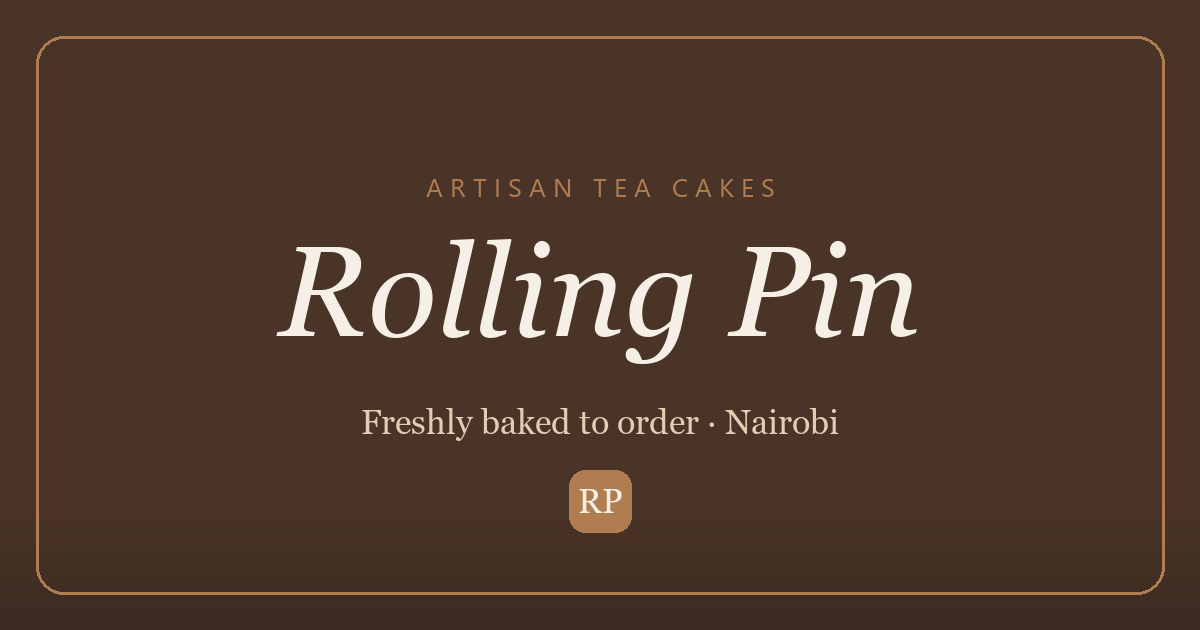
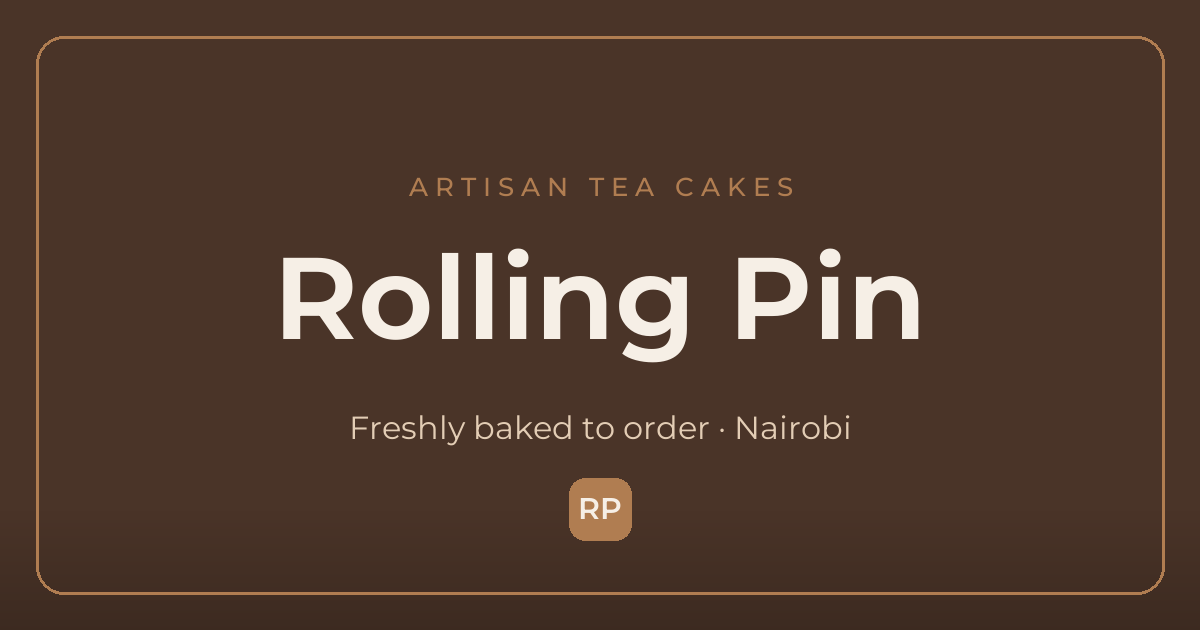
UI polish: single font, slim footer, image loading fix
- One brand font (Montserrat) everywhere; Cormorant serif removed. Display
  sizes retuned so headings stay elegant at the wider font.
- Footer slimmed: dropped the nav links (redundant with the sticky top nav);
  socials now a centered horizontal row in white.
- Product photos never flash a placeholder on refresh: new ProductImage marks
  cached photos loaded before first paint (via img.complete in a layout effect),
  eager loading (no lazy defer), neutral tile instead of the gradient, photos
  preloaded when the menu arrives, and a 1-year cache header on new uploads.
- Browser tab + share title shortened to 'Rolling Pin'; OG/canonical URLs and
  share image point at the live domain rollingpin.co.ke.
- Track page: 'message her directly' -> 'drop us a text'.

diff --git a/src/styles.css b/src/styles.css
@@ -20,7 +20,9 @@
   --radius: 22px;
   --radius-sm: 14px;
 
-  --serif: 'Cormorant Garamond', Georgia, serif;
+  /* Single-font brand: everything is Montserrat. --serif is kept as the "display"
+     role (headings, prices, codes) so weights/sizes can diverge later if wanted. */
+  --serif: 'Montserrat', system-ui, -apple-system, sans-serif;
   --sans: 'Montserrat', system-ui, -apple-system, sans-serif;
 }
 
@@ -46,8 +48,8 @@ h1, h2, h3, h4 {
   font-weight: 600;
   color: var(--cocoa);
   margin: 0;
-  line-height: 1.1;
-  letter-spacing: 0.2px;
+  line-height: 1.15;
+  letter-spacing: -0.3px; /* Montserrat tracks wide at display sizes */
 }
 
 a {
@@ -225,7 +227,8 @@ img {
   align-items: center;
 }
 .hero h1 {
-  font-size: clamp(2.8rem, 6vw, 4.6rem);
+  font-size: clamp(2.3rem, 5vw, 3.7rem);
+  letter-spacing: -1px;
   margin-bottom: 22px;
 }
 .hero h1 em {
@@ -875,26 +878,21 @@ img {
   padding: 56px 0 30px;
   margin-top: 40px;
 }
-.footer-grid {
-  display: grid;
-  grid-template-columns: 1fr 1fr;
-  gap: 40px;
-  margin-bottom: 36px;
+.footer-social-row {
+  display: flex;
+  justify-content: center;
+  align-items: center;
+  gap: 36px;
+  flex-wrap: wrap;
+  margin-bottom: 28px;
 }
-.footer h4 {
-  color: var(--cream);
-  font-size: 1.2rem;
-  margin-bottom: 14px;
-}
-.footer p,
 .footer a {
-  color: rgba(227, 205, 181, 0.85);
-  font-size: 0.92rem;
-  margin: 6px 0;
-  display: block;
+  color: #fff;
+  font-size: 0.95rem;
+  font-weight: 500;
 }
 .footer a:hover {
-  color: #fff;
+  color: var(--latte);
 }
 .footer a.footer-social {
   display: flex;
@@ -902,8 +900,8 @@ img {
   gap: 9px;
 }
 .footer-social svg {
-  width: 17px;
-  height: 17px;
+  width: 18px;
+  height: 18px;
   flex: 0 0 auto;
   fill: currentColor;
 }
@@ -923,6 +921,15 @@ img {
 }
 
 /* ---------- Product photos (storefront) ---------- */
+/* Photos fade in when ready; a cached photo (on refresh) is marked loaded before the
+   first paint by ProductImage, so it renders opaque immediately — no placeholder. */
+.product-img {
+  opacity: 0;
+  transition: opacity 0.35s ease;
+}
+.product-img.is-loaded {
+  opacity: 1;
+}
 .card-art .tag,
 .card-art .tag-sold {
   z-index: 2;
@@ -1437,7 +1444,6 @@ img {
   .summary { position: static; }
   .stat-row { grid-template-columns: repeat(2, 1fr); }
   .board { grid-template-columns: repeat(2, 1fr); }
-  .footer-grid { grid-template-columns: 1fr; gap: 22px; }
 }
 @media (max-width: 600px) {
   /* Keep brand + Menu + Track + Order-now on one row on small phones: drop the RP

diff --git a/src/components/Footer.jsx b/src/components/Footer.jsx
@@ -1,4 +1,3 @@
-import { Link } from 'react-router-dom'
 import { BUSINESS } from '../data/business.js'
 
 const WhatsAppIcon = () => (
@@ -23,28 +22,19 @@ export default function Footer() {
   return (
     <footer className="footer">
       <div className="container">
-        <div className="footer-grid">
-          <div>
-            <h4>Order</h4>
-            <Link to="/">Menu</Link>
-            <Link to="/order">Place an order</Link>
-            <Link to="/track">Track your order</Link>
-          </div>
-          <div>
-            <h4>Say hello</h4>
-            <a className="footer-social" href={`https://wa.me/${BUSINESS.whatsapp}`} target="_blank" rel="noreferrer">
-              <WhatsAppIcon />
-              <span>{BUSINESS.phone}</span>
-            </a>
-            <a className="footer-social" href={`https://instagram.com/${BUSINESS.instagram}`} target="_blank" rel="noreferrer">
-              <InstagramIcon />
-              <span>@{BUSINESS.instagram}</span>
-            </a>
-            <a className="footer-social" href={`https://tiktok.com/@${BUSINESS.tiktok}`} target="_blank" rel="noreferrer">
-              <TikTokIcon />
-              <span>@{BUSINESS.tiktok}</span>
-            </a>
-          </div>
+        <div className="footer-social-row">
+          <a className="footer-social" href={`https://wa.me/${BUSINESS.whatsapp}`} target="_blank" rel="noreferrer">
+            <WhatsAppIcon />
+            <span>{BUSINESS.phone}</span>
+          </a>
+          <a className="footer-social" href={`https://instagram.com/${BUSINESS.instagram}`} target="_blank" rel="noreferrer">
+            <InstagramIcon />
+            <span>@{BUSINESS.instagram}</span>
+          </a>
+          <a className="footer-social" href={`https://tiktok.com/@${BUSINESS.tiktok}`} target="_blank" rel="noreferrer">
+            <TikTokIcon />
+            <span>@{BUSINESS.tiktok}</span>
+          </a>
         </div>
         <div className="footer-bottom">
           Freshly baked to order · {BUSINESS.noticeHours} hours notice · © {new Date().getFullYear()} {BUSINESS.name}, {BUSINESS.location}

diff --git a/src/components/ProductImage.jsx b/src/components/ProductImage.jsx
@@ -1,0 +1,31 @@
+import { useState, useRef, useLayoutEffect } from 'react'
+import { imageUrl } from '../data/products.js'
+
+// A product photo that never flashes a placeholder on refresh.
+//
+// On refresh the photo is usually already in the browser cache, so we check
+// img.complete in a *layout* effect (which runs before the browser paints): a cached
+// image is marked loaded on the very first frame and renders fully opaque — no gradient,
+// no emoji, no flash. A genuinely cold image fades in the instant it finishes loading.
+// Loads eagerly (no lazy defer) since the menu is only a handful of photos.
+export default function ProductImage({ image, alt = '', className = '' }) {
+  const [loaded, setLoaded] = useState(false)
+  const ref = useRef(null)
+
+  useLayoutEffect(() => {
+    const img = ref.current
+    setLoaded(Boolean(img && img.complete && img.naturalWidth > 0))
+  }, [image])
+
+  return (
+    <img
+      ref={ref}
+      src={imageUrl(image)}
+      alt={alt}
+      decoding="async"
+      className={`product-img ${className} ${loaded ? 'is-loaded' : ''}`}
+      onLoad={() => setLoaded(true)}
+      onError={() => setLoaded(true)}
+    />
+  )
+}

diff --git a/src/pages/Home.jsx b/src/pages/Home.jsx
@@ -2,6 +2,7 @@ import { useState, useEffect, useMemo } from 'react'
 import { Link } from 'react-router-dom'
 import { getProducts, categoriesFrom, imageUrl } from '../data/products.js'
 import { BUSINESS, formatPrice } from '../data/business.js'
+import ProductImage from '../components/ProductImage.jsx'
 
 export default function Home() {
   const [products, setProducts] = useState([])
@@ -39,6 +40,14 @@ export default function Home() {
     return () => clearInterval(id)
   }, [slides.length])
 
+  // Warm the browser cache for every product photo the moment the menu loads, so cards
+  // and slides paint the real photo instantly instead of a placeholder.
+  useEffect(() => {
+    for (const p of products) {
+      if (p.image) { const im = new Image(); im.src = imageUrl(p.image) }
+    }
+  }, [products])
+
   return (
     <>
       <section className="hero">
@@ -65,11 +74,11 @@ export default function Home() {
                 <div
                   key={p.id}
                   className={`hero-slide ${i === current ? 'active' : ''}`}
-                  style={{ background: p.art }}
+                  style={{ background: p.image ? 'var(--cream-deep)' : p.art }}
                   aria-hidden={i !== current}
                 >
                   {p.image
-                    ? <img src={imageUrl(p.image)} alt={p.name} className="hero-slide-img" />
+                    ? <ProductImage image={p.image} alt={p.name} className="hero-slide-img" />
                     : <span className="cake-emoji">{p.emoji}</span>}
                 </div>
               ))
@@ -126,11 +135,11 @@ export default function Home() {
             <div className="menu-grid">
               {list.map((p) => {
                 const art = (
-                  <div className="card-art" style={{ background: p.art }}>
+                  <div className="card-art" style={{ background: p.image ? 'var(--cream-deep)' : p.art }}>
                     {p.tag && <span className="tag">{p.tag}</span>}
                     {p.soldOut && <span className="tag tag-sold">Sold out</span>}
                     {p.image
-                      ? <img src={imageUrl(p.image)} alt={p.name} className="card-img" loading="lazy" />
+                      ? <ProductImage image={p.image} alt={p.name} className="card-img" />
                       : <span>{p.emoji}</span>}
                   </div>
                 )

diff --git a/index.html b/index.html
@@ -9,23 +9,23 @@
     <!-- Link previews on WhatsApp / Instagram / X. The image URL must be absolute. -->
     <meta property="og:type" content="website" />
     <meta property="og:site_name" content="Rolling Pin" />
-    <meta property="og:title" content="Rolling Pin — Artisan Tea Cakes, Nairobi" />
+    <meta property="og:title" content="Rolling Pin" />
     <meta property="og:description" content="Freshly baked tea cakes, made to order in Nairobi. Order online and have it delivered to your door." />
-    <meta property="og:url" content="https://rolling-pin.vercel.app/" />
-    <meta property="og:image" content="https://rolling-pin.vercel.app/og-image.png" />
+    <meta property="og:url" content="https://rollingpin.co.ke/" />
+    <meta property="og:image" content="https://rollingpin.co.ke/og-image.png" />
     <meta property="og:image:width" content="1200" />
     <meta property="og:image:height" content="630" />
     <meta name="twitter:card" content="summary_large_image" />
-    <meta name="twitter:title" content="Rolling Pin — Artisan Tea Cakes, Nairobi" />
+    <meta name="twitter:title" content="Rolling Pin" />
     <meta name="twitter:description" content="Freshly baked tea cakes, made to order in Nairobi. Order online and have it delivered to your door." />
-    <meta name="twitter:image" content="https://rolling-pin.vercel.app/og-image.png" />
+    <meta name="twitter:image" content="https://rollingpin.co.ke/og-image.png" />
     <link rel="preconnect" href="https://fonts.googleapis.com" />
     <link rel="preconnect" href="https://fonts.gstatic.com" crossorigin />
     <link
-      href="https://fonts.googleapis.com/css2?family=Cormorant+Garamond:ital,wght@0,400;0,500;0,600;1,500&family=Montserrat:wght@300;400;500;600;700&display=swap"
+      href="https://fonts.googleapis.com/css2?family=Montserrat:wght@300;400;500;600;700&display=swap"
       rel="stylesheet"
     />
-    <title>Rolling Pin — Artisan Tea Cakes, Nairobi</title>
+    <title>Rolling Pin</title>
   </head>
   <body>
     <div id="root"></div>

diff --git a/src/pages/Order.jsx b/src/pages/Order.jsx
@@ -1,6 +1,7 @@
 import { useState, useMemo, useEffect } from 'react'
 import { useParams } from 'react-router-dom'
-import { getProducts, imageUrl } from '../data/products.js'
+import { getProducts } from '../data/products.js'
+import ProductImage from '../components/ProductImage.jsx'
 import { getSettings } from '../data/settings.js'
 import { BUSINESS, formatPrice, depositFor, getBusiness } from '../data/business.js'
 import { initializePayment } from '../data/payments.js'
@@ -304,9 +305,9 @@ export default function Order() {
           </div>
 
           <aside className="panel summary">
-            <div className="sum-art" style={{ background: product.art }}>
+            <div className="sum-art" style={{ background: product.image ? 'var(--cream-deep)' : product.art }}>
               {product.image
-                ? <img src={imageUrl(product.image)} alt={product.name} className="sum-img" />
+                ? <ProductImage image={product.image} alt={product.name} className="sum-img" />
                 : <span>{product.emoji}</span>}
             </div>
             <h3 style={{ marginBottom: 16 }}>{product.name}</h3>

diff --git a/server/store.js b/server/store.js
@@ -426,7 +426,11 @@ async function supabaseStore() {
       const { ext, mime, buffer } = parseDataUrl(dataUrl)
       await db.storage.createBucket(IMAGE_BUCKET, { public: true }).catch(() => {})
       const name = `${crypto.randomUUID()}.${ext}`
-      const { error } = await db.storage.from(IMAGE_BUCKET).upload(name, buffer, { contentType: mime, upsert: false })
+      // uuid filenames never change, so let browsers/CDN cache the photo for a year —
+      // that's what makes it reappear instantly on refresh instead of re-downloading.
+      const { error } = await db.storage
+        .from(IMAGE_BUCKET)
+        .upload(name, buffer, { contentType: mime, upsert: false, cacheControl: '31536000' })
       if (error) throw new Error(error.message)
       const { data } = db.storage.from(IMAGE_BUCKET).getPublicUrl(name)
       return { url: data.publicUrl }

diff --git a/src/pages/Track.jsx b/src/pages/Track.jsx
@@ -138,7 +138,7 @@ export default function Track() {
 
         {!searched && (
           <p className="empty">
-            Lost your code? <Link to="/" style={{ color: 'var(--caramel)', fontWeight: 700 }}>Browse the menu</Link> or message her directly.
+            Lost your code? <Link to="/" style={{ color: 'var(--caramel)', fontWeight: 700 }}>Browse the menu</Link> or drop us a text.
           </p>
         )}
       </div>